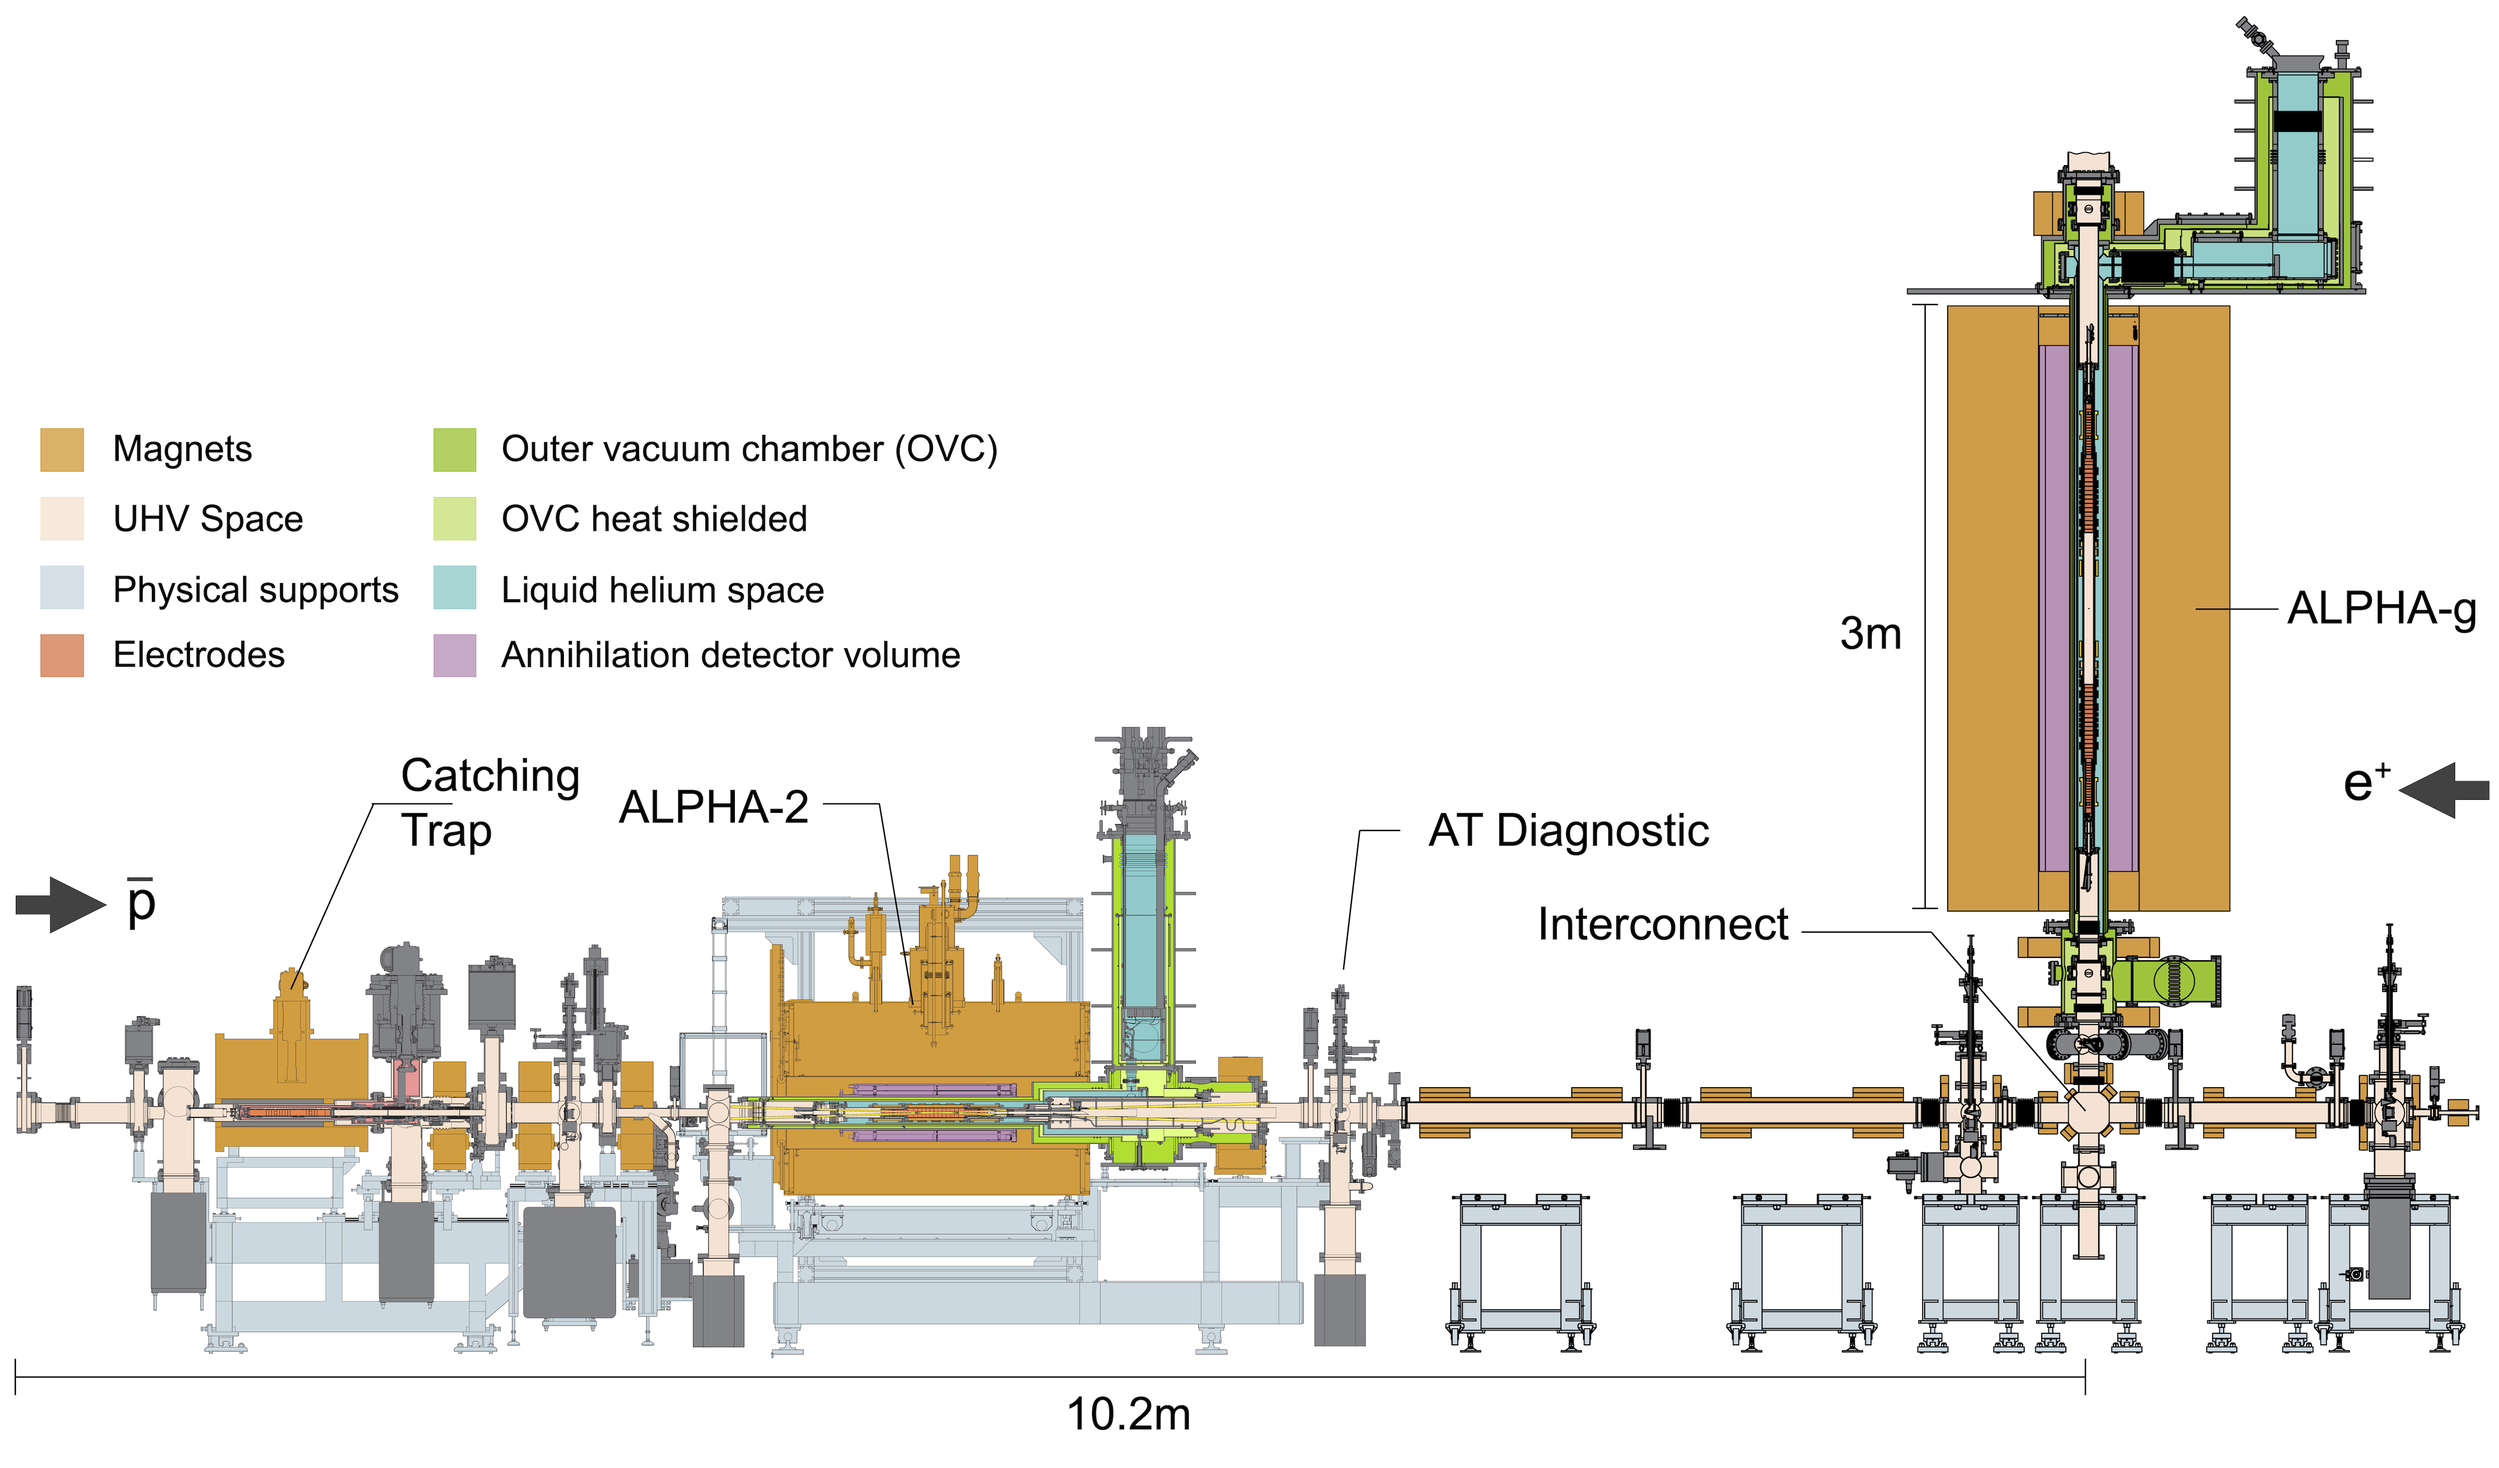
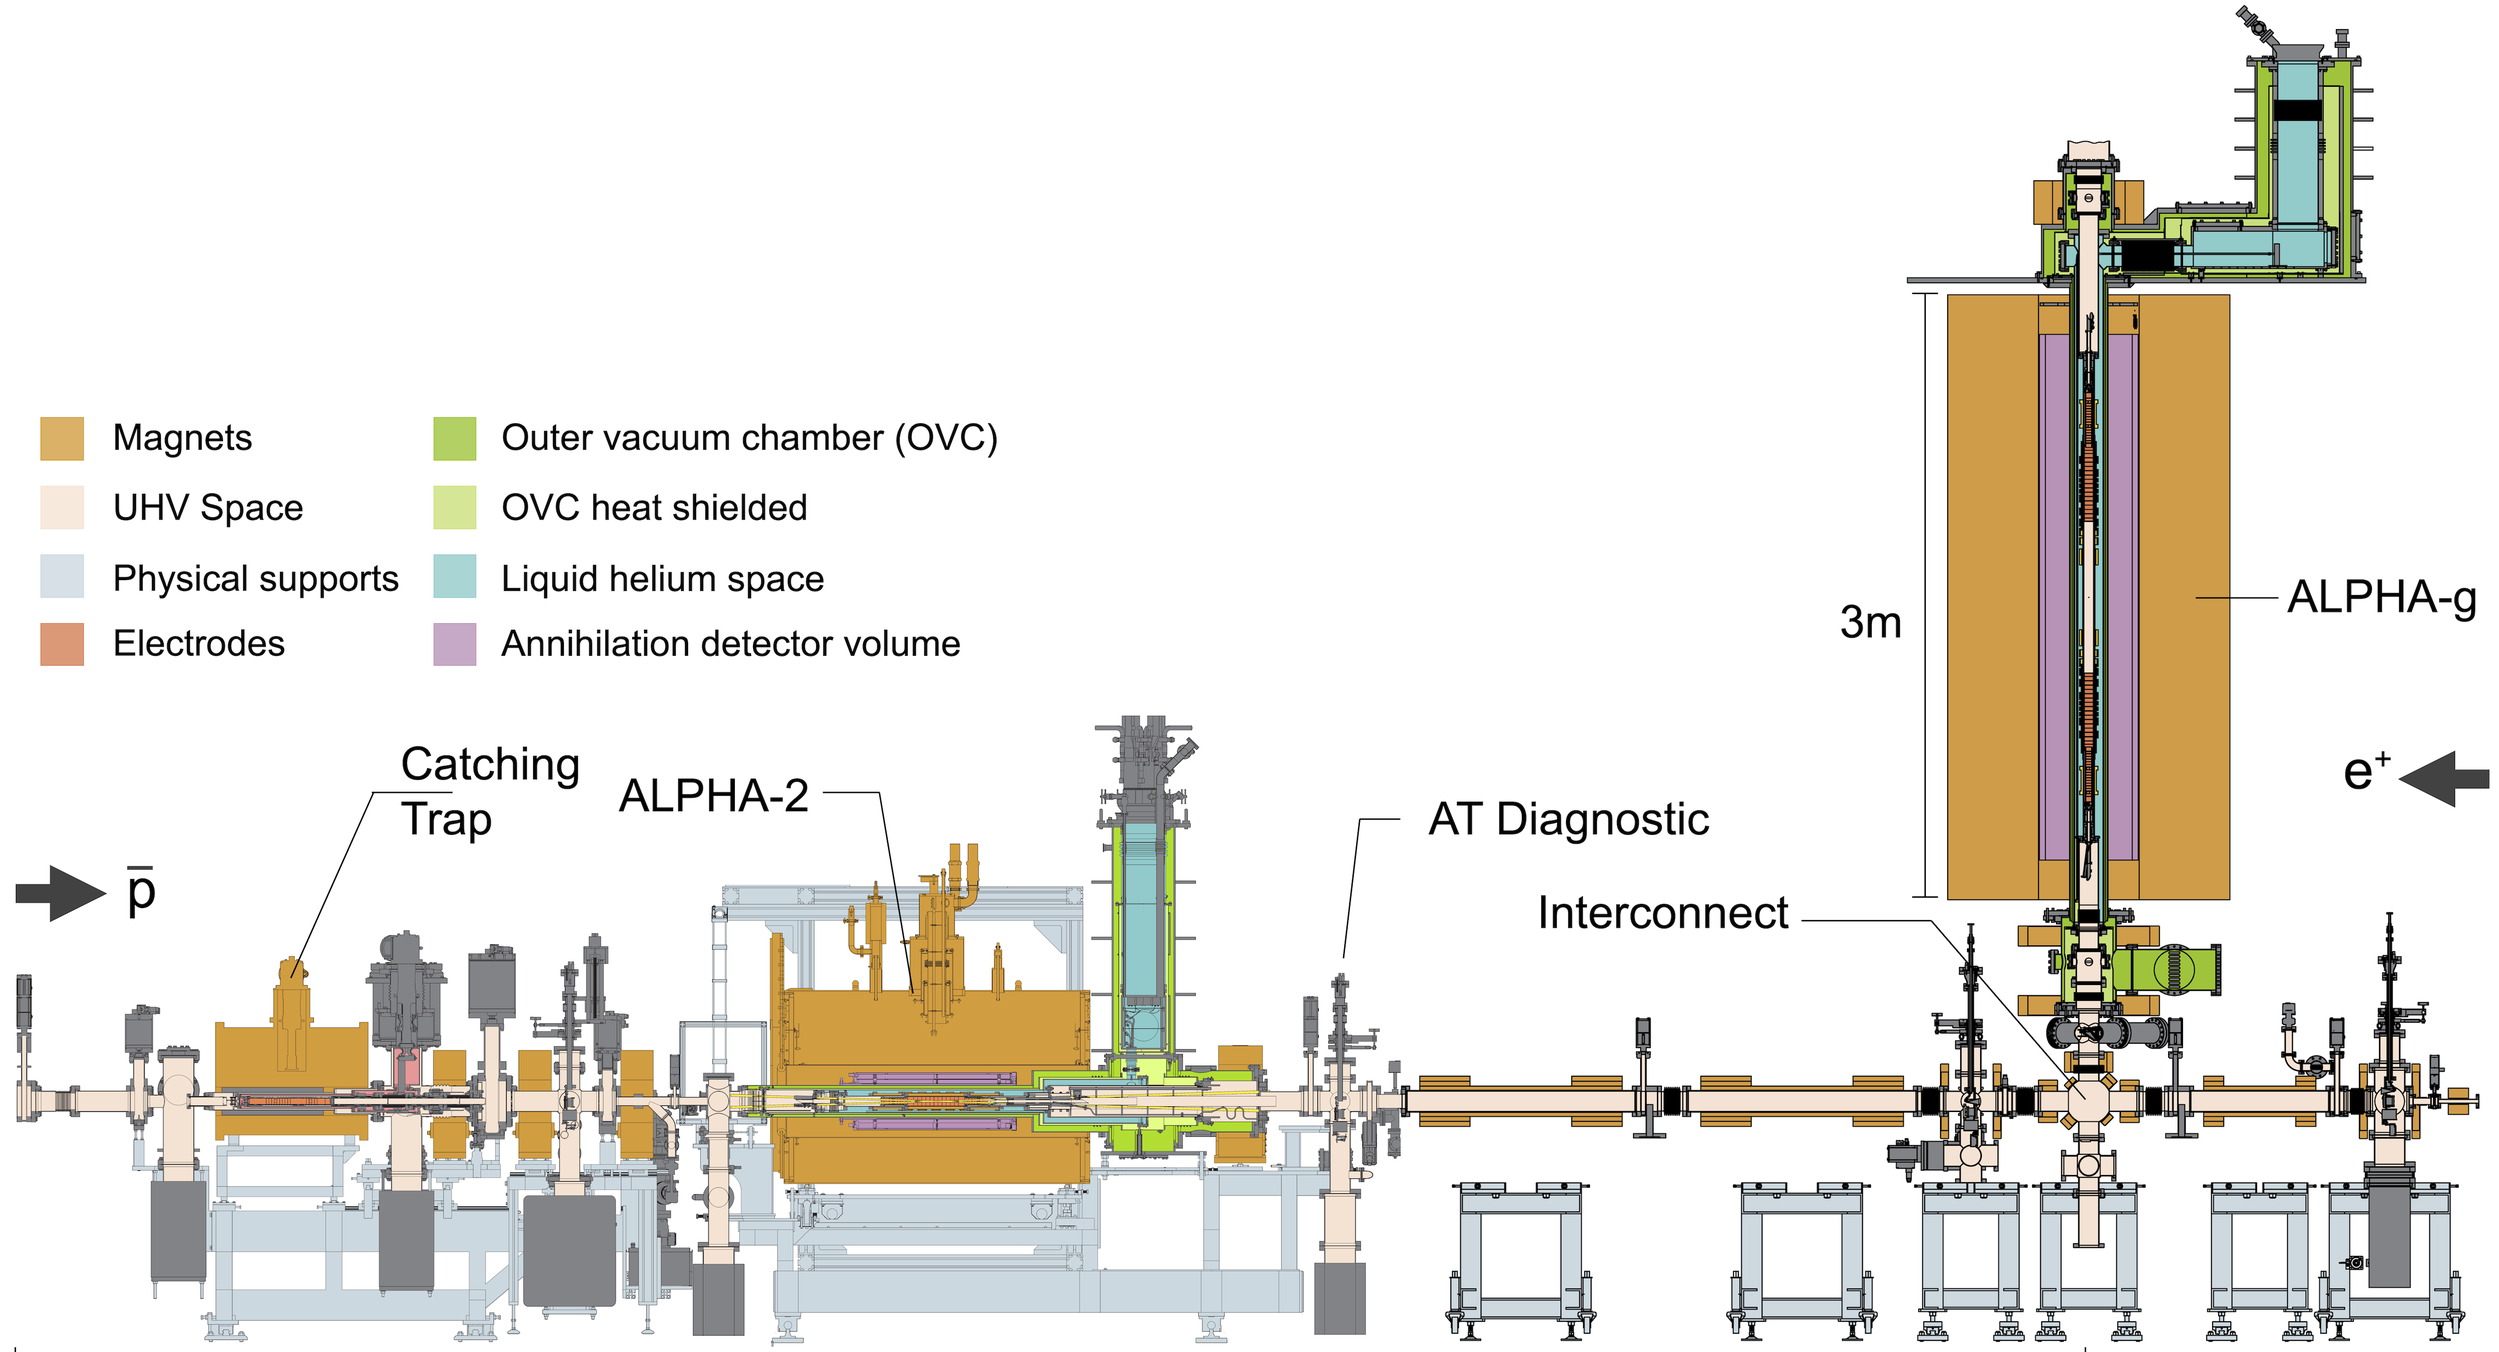
Refactor App component to include data prop in MainFrame; add ElementInfo component for displaying elements with dynamic styles; update styles for ElementInfo and MainFrame; adjust root width in index.css

diff --git a/src/MainFrame.jsx b/src/MainFrame.jsx
@@ -1,6 +1,7 @@
 import alphaSetup from './assets/ALPHA-g Schematic_v2.png';
 import React, { useState } from 'react';
 import './styles/MainFrame.css';
+import ElementInfo from './ElementInfo';
 
 /**
  * 
@@ -8,15 +9,31 @@ import './styles/MainFrame.css';
  * @author Samuel Niang
  * @returns {JSX.Element} 
  */
-const MainTitle = () => {
-    const [message, setMessage] = useState("Welcome to ALPHA TV");
+const MainFrame = ({ data }) => {
+    const [message, setMessage] = useState("");
+
+
+    const getXY = (event) => {
+        const rect = event.target.getBoundingClientRect();
+        const x = event.clientX - rect.left;
+        const y = event.clientY - rect.top;
+        const xPercent = (x / rect.width) * 100;
+        const yPercent = (y / rect.height) * 100;
+        setMessage(`Coordinates: (${xPercent.toFixed(2)}%, ${yPercent.toFixed(2)}%)`);
+    };
+
     return (
-            <div id="mainFrame" className="borderContainer">
+        <div id="mainFrame" className="borderContainer">
+            <div id="onMouseArea" onMouseMove={getXY}>
                 <img src={alphaSetup} alt="Setup of the AlphaExperiment" />
-                <div>
-                    {message}
-                </div>
+                {data && data.map((element, index) => (
+                    <ElementInfo key={index} props={element} />
+                ))}
             </div>
+            <div>
+                {message}
+            </div>
+        </div>
     );
 }
-export default MainTitle;
+export default MainFrame;

diff --git a/src/App.jsx b/src/App.jsx
@@ -1,14 +1,21 @@
-import { useState } from 'react'
+import React, { useState } from 'react'
 import './styles/App.css'
 import MainTitle from './MainTitle'
 import MainFrame from './MainFrame'
 
 function App() {
 
+  const data = [
+        { name: "BDS", x: 95.50, y: 80.0, error: false, comment: "" },
+        { name: "PDS", x: 78.9, y: 80.0, error: false, comment: "" },
+        { name: "DSAT", x: 53.56, y: 80.0, error: false, comment: ""},
+        { name: "USAT", x: 22.82, y: 80.0, error: true, comment: ""}
+    ];
+
   return (
     <>
     <MainTitle />
-    <MainFrame />
+    <MainFrame data={data}/>
     </>
   )
 }

diff --git a/src/ElementInfo.jsx b/src/ElementInfo.jsx
@@ -1,0 +1,22 @@
+import './styles/ElementInfo.css';
+import React from 'react';
+
+const ElementInfo = ({  props }) => {
+    const {name, x, y, error, comment, setMessage} = props;
+    return (
+        <div 
+            className={`element-info ${error ? "red-bg" : "green-bg"}`}
+            style={{
+                left: `${x}%`,
+                top: `${y}%`,
+                position: 'absolute',
+                width: '10px',
+                height: '10px',
+                margin: 0,
+                transform: 'translate(-50%, -50%)'
+            }}>
+        </div>
+    );
+}
+
+export default ElementInfo;

diff --git a/src/styles/ElementInfo.css b/src/styles/ElementInfo.css
@@ -1,0 +1,28 @@
+div.element-info {
+    border: 1px solid black;
+}
+
+.green-bg {
+    animation: oscillate-green-bg 1s infinite alternate;
+}
+.red-bg {
+    animation: oscillate-red-bg 0.2s infinite alternate;
+}
+
+@keyframes oscillate-green-bg {
+    from {
+        background-color: white;
+    }
+    to {
+        background-color: green;
+    }
+}
+
+@keyframes oscillate-red-bg {
+    from {
+        background-color: white;
+    }
+    to {
+        background-color: red;
+    }
+}

diff --git a/src/styles/MainFrame.css b/src/styles/MainFrame.css
@@ -2,4 +2,19 @@
     display: flex;
     flex-direction: column;
     gap: 20px;
+    width: 100%;
+    margin: 0;
+}
+
+#onMouseArea{
+    margin: 0;
+    padding: 0;
+    position: relative;
+}
+
+#onMouseArea img {
+    width: 100%;
+    border: 1px solid black;
+    margin: 0;
+    padding: 0;
 }

diff --git a/src/styles/index.css b/src/styles/index.css
@@ -16,7 +16,7 @@ body {
 }
 
 #root {
-  width: 90%;
+  width: 80%;
   /* Set container width to 90% of viewport */
   max-width: 1400px;
   /* Limit maximum width */
